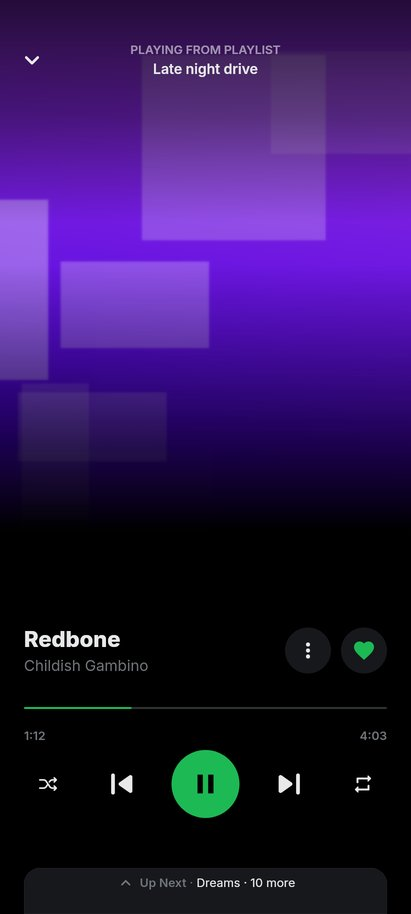
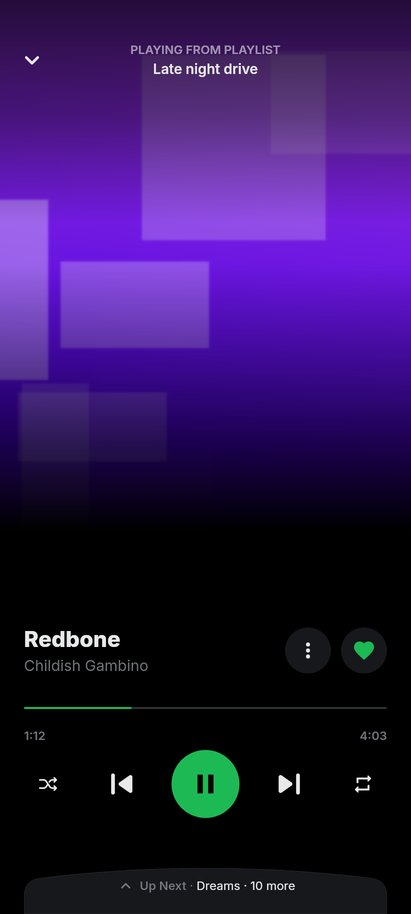
1.7.151: Up Next tab with an arched top
The owner wanted the docked Up Next tab rounder, "like the last part of a
circle", without taking more space. Its top edge is now one shallow
circular arc (12 dp from middle to ends, RiffComponentSizes.queueCardArc)
eased into the straight sides with the old 16 dp rounding, via a new
ArcTopBorder. Same height, still docked to the bottom edge; the label sits
6 dp lower so the arc clears it.

Claude-Session: https://claude.ai/code/session_01QqANA2KoyktcKRw8NbVQ7X

diff --git a/lib/ui/player/components/up_next_card.dart b/lib/ui/player/components/up_next_card.dart
@@ -1,3 +1,5 @@
+import 'dart:math' as math;
+
 import 'package:flutter/material.dart';
 import 'package:get/get.dart';
 
@@ -5,7 +7,8 @@ import '/ui/theme/riff_spacing.dart';
 import '/ui/theme/riff_tokens.dart';
 
 /// The full player's collapsed queue: a slim one-line tab standing on the
-/// bottom edge, rounded on top, as wide as the player's content above it. It runs
+/// bottom edge, its top one shallow arc (the top slice of a circle), as
+/// wide as the player's content above it. It runs
 /// down through the system inset; its label stays above it. The whole
 /// strip, the tab and the gap beside it, opens the queue, so a tap never
 /// reaches the hidden queue underneath.
@@ -40,9 +43,8 @@ class UpNextCard extends StatelessWidget {
                 maxWidth: RiffComponentSizes.queueCardMaxWidth),
             child: Material(
               color: theme.colorScheme.surfaceContainerLow,
-              shape: RoundedRectangleBorder(
-                borderRadius: const BorderRadius.vertical(
-                    top: Radius.circular(RiffRadii.lg)),
+              shape: ArcTopBorder(
+                arc: RiffComponentSizes.queueCardArc,
                 side: BorderSide(color: theme.dividerColor, width: 0),
               ),
               clipBehavior: Clip.antiAlias,
@@ -51,8 +53,11 @@ class UpNextCard extends StatelessWidget {
                 child: Container(
                   width: double.infinity,
                   height: RiffComponentSizes.queueCard + bottomInset,
+                  // The label sits a little lower than the band's middle,
+                  // where the arc has room for it.
                   padding: EdgeInsets.only(
                       left: RiffSpacing.lg,
+                      top: RiffComponentSizes.queueCardArc / 2,
                       right: RiffSpacing.lg,
                       bottom: bottomInset),
                   alignment: Alignment.center,
@@ -100,4 +105,89 @@ class UpNextCard extends StatelessWidget {
       ),
     );
   }
+}
+
+/// A box whose top edge is one circular arc through the middle of the top
+/// and the two sides [arc] below it, eased into the straight sides by
+/// [corner]; the bottom is straight.
+class ArcTopBorder extends OutlinedBorder {
+  const ArcTopBorder(
+      {super.side, required this.arc, this.corner = RiffRadii.lg});
+
+  /// Drop from the middle of the top edge to its ends.
+  final double arc;
+
+  /// Rounding where the arc meets the straight sides.
+  final double corner;
+
+  Path _path(Rect rect) {
+    final d = arc.clamp(0.0, rect.height).toDouble();
+    final c = corner.clamp(0.0, rect.width / 2).toDouble();
+    final half = rect.width / 2;
+    final path = Path()..moveTo(rect.left, rect.bottom);
+    if (d == 0) {
+      return path
+        ..lineTo(rect.left, rect.top + c)
+        ..quadraticBezierTo(rect.left, rect.top, rect.left + c, rect.top)
+        ..lineTo(rect.right - c, rect.top)
+        ..quadraticBezierTo(rect.right, rect.top, rect.right, rect.top + c)
+        ..lineTo(rect.right, rect.bottom)
+        ..close();
+    }
+    // The circle through both top ends and the apex.
+    final r = (half * half + d * d) / (2 * d);
+    final centerY = rect.top + r;
+    double arcY(double x) {
+      final dx = x - rect.center.dx;
+      return centerY - math.sqrt(math.max(0, r * r - dx * dx));
+    }
+
+    final leftIn = Offset(rect.left + c, arcY(rect.left + c));
+    final rightIn = Offset(rect.right - c, arcY(rect.right - c));
+    return path
+      ..lineTo(rect.left, rect.top + d + c)
+      ..quadraticBezierTo(rect.left, rect.top + d, leftIn.dx, leftIn.dy)
+      ..arcToPoint(rightIn, radius: Radius.circular(r))
+      ..quadraticBezierTo(
+          rect.right, rect.top + d, rect.right, rect.top + d + c)
+      ..lineTo(rect.right, rect.bottom)
+      ..close();
+  }
+
+  @override
+  EdgeInsetsGeometry get dimensions => EdgeInsets.all(side.width);
+
+  @override
+  Path getInnerPath(Rect rect, {TextDirection? textDirection}) =>
+      _path(rect.deflate(side.width));
+
+  @override
+  Path getOuterPath(Rect rect, {TextDirection? textDirection}) => _path(rect);
+
+  @override
+  void paint(Canvas canvas, Rect rect, {TextDirection? textDirection}) {
+    if (side.style == BorderStyle.none) return;
+    canvas.drawPath(_path(rect), side.toPaint());
+  }
+
+  @override
+  ArcTopBorder copyWith({BorderSide? side, double? arc, double? corner}) =>
+      ArcTopBorder(
+          side: side ?? this.side,
+          arc: arc ?? this.arc,
+          corner: corner ?? this.corner);
+
+  @override
+  ShapeBorder scale(double t) =>
+      ArcTopBorder(side: side.scale(t), arc: arc * t, corner: corner * t);
+
+  @override
+  bool operator ==(Object other) =>
+      other is ArcTopBorder &&
+      other.side == side &&
+      other.arc == arc &&
+      other.corner == corner;
+
+  @override
+  int get hashCode => Object.hash(side, arc, corner);
 }

diff --git a/test/up_next_card_test.dart b/test/up_next_card_test.dart
@@ -41,7 +41,7 @@ final _panelFade = find.ancestor(
         matching: find.byType(FadeTransition)));
 
 void main() {
-  testWidgets('a slim tab standing on the bottom edge, rounded on top',
+  testWidgets('a slim tab standing on the bottom edge, arched on top',
       (tester) async {
     _screen(tester, _phone);
     await tester.pumpWidget(_card());
@@ -55,10 +55,18 @@ void main() {
     expect(tester.getRect(find.text('upNext · Dreams · 10 more')).bottom,
         lessThanOrEqualTo(_phone.height - _inset));
 
-    final shape =
-        tester.widget<Material>(_cardSurface).shape! as RoundedRectangleBorder;
-    expect(shape.borderRadius,
-        const BorderRadius.vertical(top: Radius.circular(RiffRadii.lg)));
+    // The top is one shallow arc (eased into the sides), the bottom flat.
+    final shape = tester.widget<Material>(_cardSurface).shape! as ArcTopBorder;
+    expect(shape.arc, RiffComponentSizes.queueCardArc);
+    expect(shape.corner, RiffRadii.lg);
+    final path = shape.getOuterPath(rect);
+    // Apex at the top middle; the top ends sit lower than the apex.
+    expect(path.contains(Offset(rect.center.dx, rect.top + 1)), isTrue);
+    expect(path.contains(Offset(rect.left + 2, rect.top + 2)), isFalse);
+    expect(path.contains(Offset(rect.right - 2, rect.top + 2)), isFalse);
+    // Square bottom corners on the screen edge.
+    expect(path.contains(Offset(rect.left + 1, rect.bottom - 1)), isTrue);
+    expect(path.contains(Offset(rect.right - 1, rect.bottom - 1)), isTrue);
   });
 
   testWidgets('label and next song share one line', (tester) async {

diff --git a/lib/ui/theme/riff_tokens.dart b/lib/ui/theme/riff_tokens.dart
@@ -194,6 +194,11 @@ class RiffComponentSizes {
   static const double queueCard = 30;
   static const double queueCardMaxWidth = 500;
 
+  /// How far the Up Next tab's arched top drops from its middle to its
+  /// sides: the top edge is one shallow arc of a circle, not a straight
+  /// edge with rounded corners.
+  static const double queueCardArc = 12;
+
   /// Wide (desktop) mini player: skip glyphs, their hit widths, the
   /// accent play circle and its glyph (keep the current sizes), and the
   /// seek-bar thumb (§5 Phase 6: 12 across).

diff --git a/lib/utils/app_version.dart b/lib/utils/app_version.dart
@@ -5,7 +5,7 @@ import 'package:package_info_plus/package_info_plus.dart';
 ///
 /// MUST stay in sync with `version:` in pubspec.yaml — `test/app_version_test.dart`
 /// asserts this, so a bumped pubspec with a stale constant fails the suite.
-const String kPubspecAppVersion = '1.7.150';
+const String kPubspecAppVersion = '1.7.151';
 
 /// Splits any version-ish string into exactly three numeric parts.
 ///

diff --git a/docs/redesign/SKIPPED.md b/docs/redesign/SKIPPED.md
@@ -55,6 +55,7 @@ elements (or can't be done on this SDK), and what was done instead.
 | 7 (revised after 1.7.148) | Podcasts Inbox: the library filter chips (New · In progress · Queued · Downloaded · Bookmarked · Under 20 min) as a second chip row under the section chips | The owner found the second row too much and cluttered and asked for it to be integrated | second row removed. The selected Inbox chip reads "Inbox ▾", or "Inbox · In progress ▾" with a filter on (same chip, an 18 dp caret in the label colour, tooltip "Filter the Inbox"); tapping it again opens a menu under it: Inbox, then the six filters, the current one checked. Tapping Inbox from another section only switches to it and keeps the last filter; unselected, the chip looks as before. Same filters and results; the empty state's "Back to the Inbox" still clears the filter |
 | 6 (revised after 1.7.148) | Home section set and order (Riff Wave + station chips as a Home section) | The owner asked for Riff Wave to move to Discover, integrated well | Riff Wave card and its station chips removed from Home and from Settings › Home layout; they now lead the Discover tab's feed, right under the search pill and above YouTube's genre chips, scrolling with it, with a full-width hairline between the two chip rows. Card: 8 dp under the search pill, 16 dp gutters, radius 16, two-line subtitle and a 88 dp minimum height (grows with large text instead of fixed); station chips take the chip theme's border so they match the genre chips. The Explore page opened from Home is unchanged. The other Home sections keep their order; a saved hidden list naming `riffWave` loads with that name dropped. Wave playback unchanged |
 | 6 (revised after 1.7.148) | Player and mini player artist line | The owner asked for a Spotify-style "which artist?" choice | tapping the artist line of a song credited to several artists opens a "Choose artist" sheet (handle, title, one row per artist with a 48 dp round photo or letter avatar and the name); picking one closes the player and opens that artist. A single artist still opens directly |
+| 6 (revised after 1.7.150) | Up Next tab top edge | The owner asked for it rounder, "like the last part of a circle", docked and compact | top edge is one shallow circular arc (12 dp drop, `RiffComponentSizes.queueCardArc`) eased into the sides with the old 16 dp rounding (`ArcTopBorder`); same height, still docked to the bottom edge; label moved down 6 dp under the arc |
 
 ## Known side effects of Phase 1 (to settle in later phases)
 

diff --git a/CHANGELOG.md b/CHANGELOG.md
@@ -1,3 +1,8 @@
+# 1.7.151
+
+* The Up Next tab at the bottom of the player has an arched top, like the
+  top slice of a circle, with soft ends. Same size as before
+
 # 1.7.150
 
 A clean-up release: bugs, memory and speed across the whole app, and
